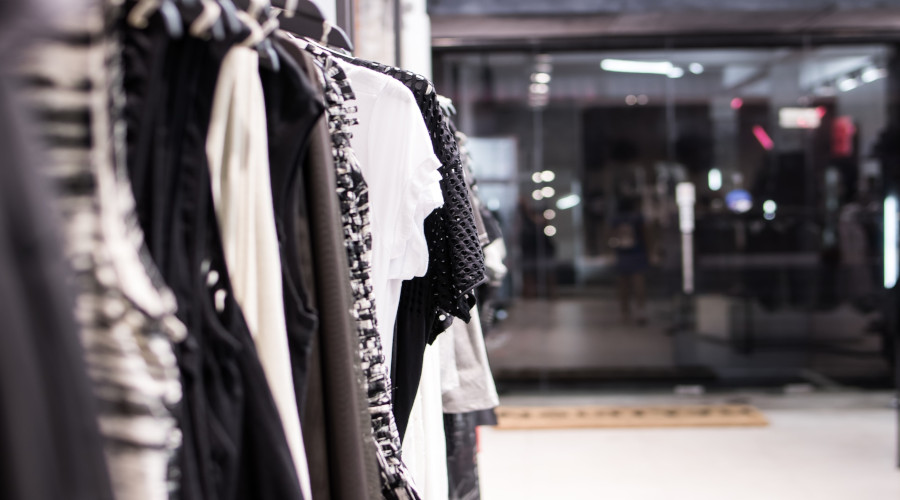
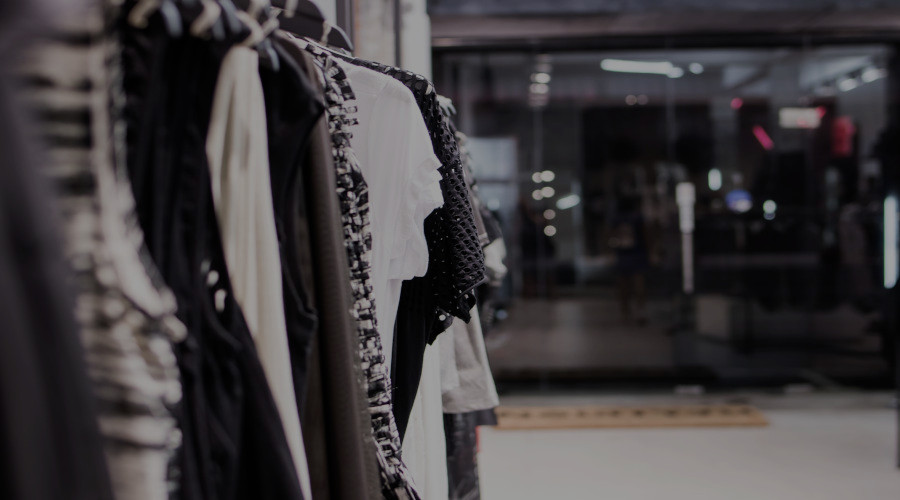
atualização imagem de fundo

diff --git a/index.html b/index.html
@@ -40,7 +40,7 @@
     <div class="imagem">
 
         <picture>
-            <source media="(min-width:768px )" srcset="imagens/imagem-fundo-grande.jpg">
+            <source media="(min-width:768px )" srcset="imagens/imagem-fundo-grande.png">
             <img src="imagens/imagem-fundo-pq.jpg" alt="Imagem">
         </picture>
         <!-- Fim imagem de fundo -->
